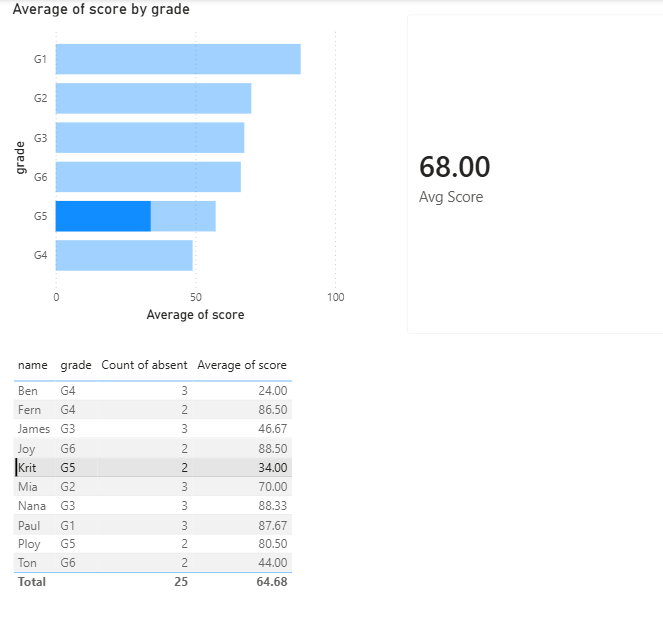
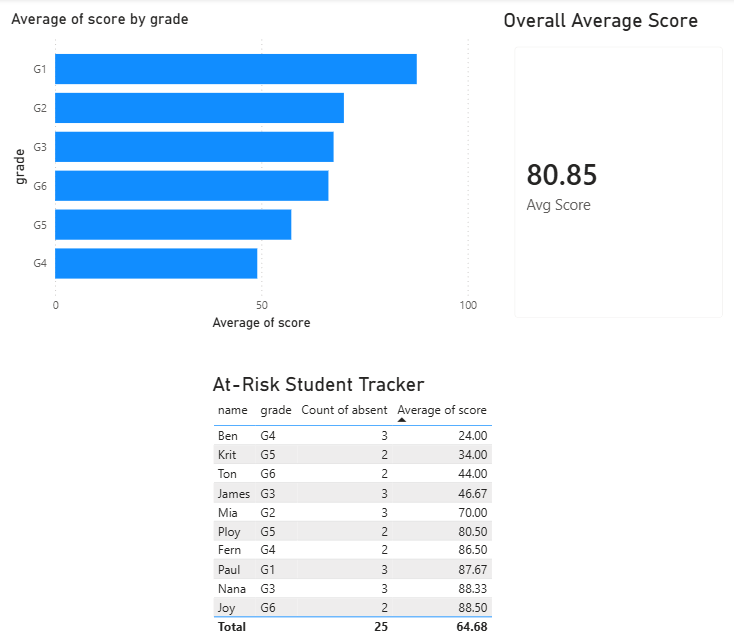
Add files via upload

diff --git a/README.md b/README.md
@@ -1,0 +1,152 @@
+# Tutoring Center Student Analytics Dashboard
+
+**By Armanee Mardstool | Data Analytics Portfolio Project**
+
+---
+
+## Project Overview
+
+This project analyzes student performance data from an international tutoring center (K1–G6) to identify learning gaps, absence patterns, and the impact of makeup sessions on student outcomes.
+
+The analysis is based on real operational experience as a Mathematics Tutor, where manual reporting and lack of data tracking created significant inefficiencies.
+
+---
+
+## Business Problem
+
+> *"How can a tutoring center use data to improve student learning continuity, reduce administrative burden, and deliver better insights to parents?"*
+
+**Key pain points identified:**
+1. Teachers spent 15–20 minutes per class manually writing and sending reports to parents
+2. Students attending makeup sessions with different teachers showed inconsistent learning progress
+3. No system existed to flag at-risk students before they fell too far behind
+4. Trial test results were stored in LINE chat, making it difficult for teachers to access prior to lessons
+
+---
+
+## Objectives
+
+- Analyze absence patterns by grade level
+- Compare scores between regular sessions and makeup sessions
+- Identify at-risk students based on absences and performance
+- Propose data-driven recommendations to improve center operations
+
+---
+
+## Dataset
+
+Simulated dataset built from real tutoring center experience, structured across 4 tables:
+
+| Table | Description | Rows |
+|---|---|---|
+| students | Student profiles (name, grade, enrollment date) | 10 |
+| sessions | Class records (date, teacher, topic, score, absent) | 25 |
+| trial_test | Initial assessment results per student | 10 |
+| makeup_tracking | Makeup session records with topic match tracking | 3 |
+
+**Data source:** Simulated based on personal experience as an International Math Instructor (K1–G6)
+
+---
+
+## Analysis
+
+### SQL Queries
+
+**1. Absence Rate by Grade**
+```sql
+SELECT 
+    students.grade,
+    COUNT(*) AS total_sessions,
+    SUM(CASE WHEN sessions.absent = 'Yes' THEN 1 ELSE 0 END) AS total_absences,
+    ROUND(SUM(CASE WHEN sessions.absent = 'Yes' THEN 1 ELSE 0 END) * 100.0 / COUNT(*), 2) AS absence_rate
+FROM sessions
+JOIN students ON sessions.student_id = students.student_id
+GROUP BY students.grade
+ORDER BY absence_rate DESC;
+```
+
+**2. Score Comparison: Regular vs Makeup Sessions**
+```sql
+SELECT 
+    is_makeup,
+    COUNT(*) AS total_sessions,
+    ROUND(AVG(score), 2) AS avg_score
+FROM sessions
+WHERE absent = 'No'
+GROUP BY is_makeup;
+```
+
+**3. At-Risk Student Identification**
+```sql
+SELECT 
+    students.student_id,
+    students.name,
+    students.grade,
+    COUNT(CASE WHEN sessions.absent = 'Yes' THEN 1 END) AS total_absences,
+    ROUND(AVG(CASE WHEN sessions.absent = 'No' THEN sessions.score END), 2) AS avg_score
+FROM students
+JOIN sessions ON students.student_id = sessions.student_id
+GROUP BY students.student_id
+HAVING total_absences >= 1 OR avg_score < 80
+ORDER BY avg_score ASC;
+```
+
+---
+
+## Key Findings
+
+| Finding | Result |
+|---|---|
+| Grade with highest absence rate | G4 — 40% |
+| Avg score: Regular sessions | 83.18 |
+| Avg score: Makeup sessions | 67.67 |
+| Score gap (Regular vs Makeup) | **15.51 points** |
+| At-risk students identified | 5 out of 10 |
+| Lowest performing student | Krit (G5) — 34.00 avg |
+
+---
+
+## What Didn't Work
+
+- Attempted to find correlation between day of week and student scores — no significant pattern found with this dataset size
+- Tried to segment by teacher effectiveness — insufficient data points to draw statistically meaningful conclusions
+
+---
+
+## Business Recommendations
+
+1. **Absence Alert System** — Flag students with 2+ consecutive absences for immediate parent notification
+2. **Mandatory Topic Matching for Makeup Sessions** — Makeup teachers must follow the original session topic, not their own curriculum
+3. **Standardized Digital Reporting Template** — Replace manual LINE reports with a Google Form template to save ~15–20 minutes per class per teacher
+4. **Centralized Trial Test Database** — Move trial test results from LINE chat to a shared spreadsheet accessible to all teachers before lessons
+
+---
+
+## Tools Used
+
+| Tool | Purpose |
+|---|---|
+| Google Sheets | Dataset creation and data cleaning |
+| DB Browser for SQLite | SQL analysis and querying |
+| Power BI Desktop | Dashboard and data visualization |
+
+---
+
+## Dashboard Preview
+
+![Dashboard](dashboard_screenshot.png)
+
+**Dashboard includes:**
+- Average score by grade (Bar Chart)
+- Overall average score — 68.00 (Card)
+- At-risk student table with absence count and average score
+
+---
+
+## About This Project
+
+This project was built as part of my Data Analytics portfolio to demonstrate end-to-end analytical skills — from data collection and SQL querying to dashboard creation and business recommendation.
+
+The business context is drawn from my real experience as an International Mathematics Tutor at a tutoring center in Bangkok, Thailand, giving this analysis practical grounding beyond a typical academic exercise.
+
+**Connect with me on LinkedIn:** [Armanee Mardstool](https://linkedin.com/in/armanee-mardstool)